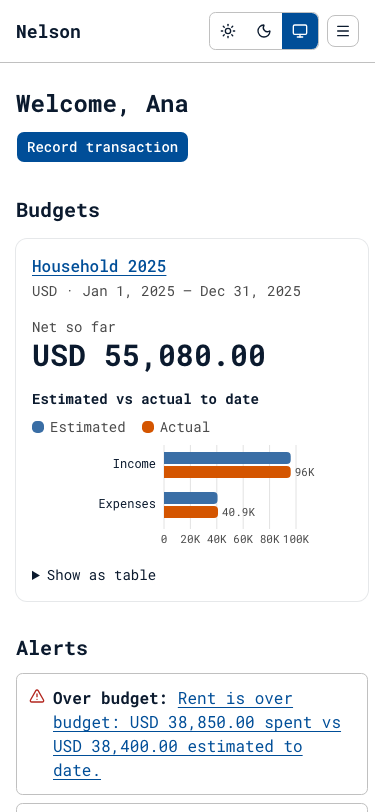
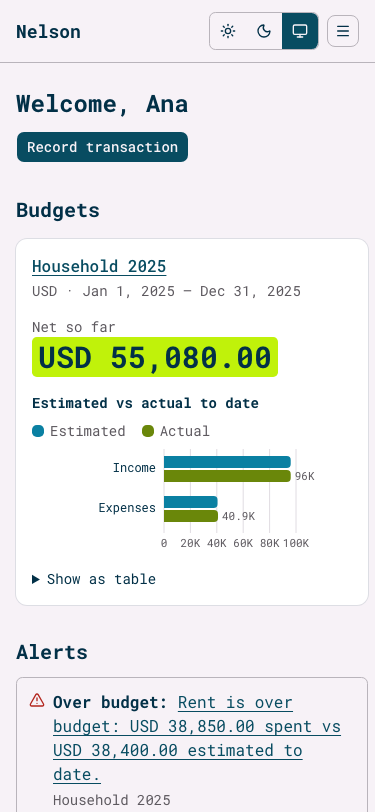
docs: new palette credit and screenshots
Claude-Session: https://claude.ai/code/session_01UFnUtZisbg6GJroR7SLCsM

diff --git a/README.md b/README.md
@@ -135,7 +135,7 @@ Distributed under the MIT License. See [LICENSE](./LICENSE) for details.
 
 ## Credits
 
-[React](https://react.dev), [TanStack Router & Query](https://tanstack.com), [shadcn/ui](https://ui.shadcn.com) on [Base UI](https://base-ui.com), [Tailwind CSS](https://tailwindcss.com), [Zustand](https://zustand.docs.pmnd.rs), [Zod](https://zod.dev), [D3](https://d3js.org), [dnd-kit](https://dndkit.com), [Stepperize](https://stepperize.com), [Better Auth](https://better-auth.com), [temporal-polyfill](https://github.com/fullcalendar/temporal-polyfill), [Roboto Mono](https://fonts.google.com/specimen/Roboto+Mono). Palette from [Coolors](https://coolors.co/palette/ff6700-ebebeb-c0c0c0-3a6ea5-004e98).
+[React](https://react.dev), [TanStack Router & Query](https://tanstack.com), [shadcn/ui](https://ui.shadcn.com) on [Base UI](https://base-ui.com), [Tailwind CSS](https://tailwindcss.com), [Zustand](https://zustand.docs.pmnd.rs), [Zod](https://zod.dev), [D3](https://d3js.org), [dnd-kit](https://dndkit.com), [Stepperize](https://stepperize.com), [Better Auth](https://better-auth.com), [temporal-polyfill](https://github.com/fullcalendar/temporal-polyfill), [Roboto Mono](https://fonts.google.com/specimen/Roboto+Mono). Palette from [Coolors](https://coolors.co/palette/f7f2f7-b9b4bb-c0f20a-084c61-023047).
 
 ## Author
 
